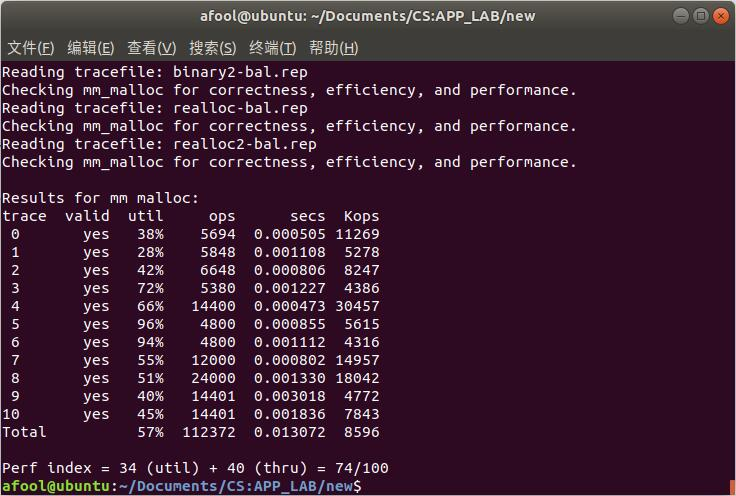
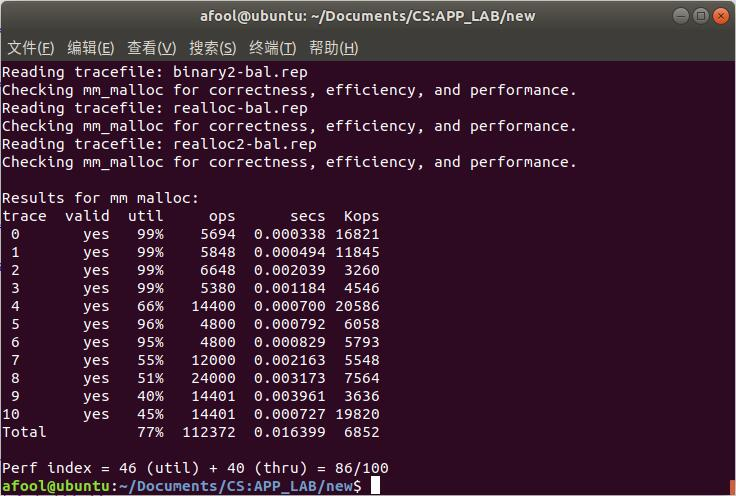
change 3.jpg

diff --git a/malloclab/malloc/mm_SegregatedExplicitFreeList.c b/malloclab/malloc/mm_SegregatedExplicitFreeList.c
@@ -18,8 +18,7 @@
 #include "mm.h"
 #include "memlib.h"
 
-#define DEBUG
-#undef DEBUG
+
 
  /*********************************************************
   * NOTE TO STUDENTS: Before you do anything else, please
@@ -37,6 +36,9 @@ team_t team = {
 	/* Second member's email address (leave blank if none) */
 	""
 };
+
+#define DEBUG
+#undef DEBUG
 
 #define WSIZE				4
 #define DSIZE				8
@@ -87,7 +89,7 @@ static void erase_list(void *bp);
 static void *extend_heap(size_t words);
 static void *coalesce(void *bp);
 
-static int find_place(size_t asize);
+static int find_place(int i, size_t asize);
 int mm_init(void);
 void *mm_malloc(size_t size);
 
@@ -328,8 +330,9 @@ static void push_list(void *bp)
 	int root = ptr;
 	PUT(cat, root);
 
-	sprintf(ch, "-----push_list-----\n");
+	
 #ifdef DEBUG
+	sprintf(ch, "-----push_list-----\n");
 	mm_check(ch);
 #endif // DEBUG
 
@@ -590,22 +593,25 @@ static void *coalesce1(void *bp)
 	return bp;
 }
 
-static int find_place(size_t asize)
+static int find_place(int i, size_t asize)
 {
 	int cat = 0;
 	int size = asize;
-	int i = 0, lim = 32;
+	int lim = 1 << (i+5);
 	while (i < 8 && (size > lim || GET(heap_start + i * WSIZE) == 0))
 	{
 		i++;
 		lim <<= 1;
 	}
 	if (GET(heap_start + i * WSIZE) == 0) ++i;
+	return i;
+	/*
 	if (i == 9) return 0;
 	else cat = (unsigned int)(long long)(void *)(heap_start + i * WSIZE);
 	int res = find_node(GET(cat), asize);
 
 	return res;
+	*/
 }
 
 static void place(int bp, size_t asize)
@@ -641,8 +647,9 @@ static void place(int bp, size_t asize)
 		PUT(FTRP(bp), PACK(csize, 1));
 	}
 
-	sprintf(ch, "-----place-----\n");
+	
 #ifdef DEBUG
+	sprintf(ch, "-----place-----\n");
 	mm_check(ch);
 #endif // DEBUG
 }
@@ -660,7 +667,7 @@ void *mm_malloc(size_t size)
 
 	size_t asize;
 	size_t extendsize;
-	int bp;
+	int bp=0;
 
 	if (size == 0)
 		return NULL;
@@ -670,7 +677,20 @@ void *mm_malloc(size_t size)
 	else
 		asize = DSIZE * ((size + (DSIZE)+(DSIZE - 1)) / DSIZE);
 
-	if ((bp = find_place(asize)) != 0)
+	int i = 0;
+	while ((i = find_place(i, asize)) < 9)
+	{
+		void *cat = (unsigned int)(long long)(heap_start + i * WSIZE);
+		int res = find_node(GET(cat), asize);
+		if (res != 0)
+		{
+			bp = res;
+			break;
+		}
+		++i;
+	}
+
+	if (bp != 0)
 	{
 		place(bp, asize);
 		return (void *)bp;
@@ -681,8 +701,9 @@ void *mm_malloc(size_t size)
 		return NULL;
 	place(bp, asize);
 
-	sprintf(ch, "-----mm_malloc-----\n");
+	
 #ifdef DEBUG
+	sprintf(ch, "-----mm_malloc-----\n");
 	mm_check(ch);
 #endif DEBUG
 
@@ -708,8 +729,9 @@ void mm_free(void *ptr)
 
 	coalesce(ptr);
 
-	sprintf(ch, "-----mm_free-----\n");
+	
 #ifdef DEBUG
+	sprintf(ch, "-----mm_free-----\n");
 	mm_check(ch);
 #endif // DEBUG
 }
